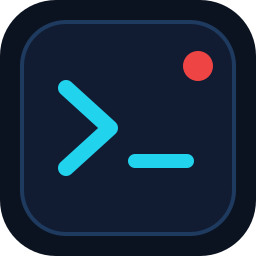
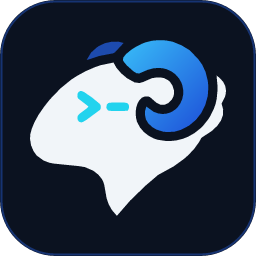
Release 0.4.1: Drag-and-drop on agent conversations, direct pane messaging, and open-in-editor skill

diff --git a/test/extension.test.ts b/test/extension.test.ts
@@ -1,0 +1,159 @@
+import { afterEach, beforeEach, describe, expect, it, vi } from 'vitest';
+import * as fs from 'node:fs/promises';
+import * as os from 'node:os';
+import * as path from 'node:path';
+
+const state = vi.hoisted(() => ({
+  view: undefined as any,
+  commands: new Map<string, (...args: any[]) => any>(),
+  roots: [{ uri: { fsPath: '/work/project', scheme: 'file', authority: '' } }],
+  remoteName: undefined as string | undefined,
+  error: vi.fn(),
+  client: {
+    session: 'vscode',
+    isAvailable: () => true,
+    subscribeEvents: () => () => {},
+    snapshot: async () => ({
+      workspaces: [{ workspace_id: 'w', label: 'project' }],
+      tabs: [{ tab_id: 't', workspace_id: 'w' }],
+      panes: [{ pane_id: 'p', tab_id: 't', workspace_id: 'w', cwd: '/work/project' }],
+      agents: [],
+      focused_tab_id: 't'
+    }),
+    sendText: vi.fn().mockResolvedValue(undefined),
+    focusTab: vi.fn().mockResolvedValue(undefined),
+    focusWorkspace: vi.fn().mockResolvedValue(undefined)
+  }
+}));
+
+vi.mock('vscode', () => ({
+  TreeItem: class {},
+  ThemeIcon: class {},
+  ThemeColor: class {},
+  EventEmitter: class { event = () => {}; fire() {} },
+  TreeItemCollapsibleState: { Expanded: 2, None: 0 },
+  StatusBarAlignment: { Left: 1 },
+  ColorThemeKind: { Light: 1, Dark: 2, HighContrastLight: 4 },
+  Uri: { parse: (value: string) => {
+    const uri = new URL(value);
+    return { scheme: uri.protocol.slice(0, -1), authority: uri.host,
+      fsPath: decodeURIComponent(uri.pathname), fragment: uri.hash.slice(1) };
+  } },
+  env: { get remoteName() { return state.remoteName; } },
+  workspace: {
+    get workspaceFolders() { return state.roots; },
+    getConfiguration: () => ({ get: (_key: string, fallback: unknown) => fallback }),
+    onDidChangeWorkspaceFolders: () => ({}),
+    onDidChangeConfiguration: () => ({})
+  },
+  window: {
+    activeColorTheme: { kind: 2 },
+    createStatusBarItem: () => ({ show() {}, dispose() {} }),
+    createTreeView: (_id: string, options: unknown) => { state.view = options; return {}; },
+    createTerminal: () => ({ show() {}, sendText() {} }),
+    onDidCloseTerminal: () => ({}),
+    onDidChangeActiveTextEditor: () => ({}),
+    showInformationMessage: vi.fn(),
+    showErrorMessage: state.error
+  },
+  commands: { registerCommand: (id: string, handler: (...args: any[]) => any) => {
+    state.commands.set(id, handler);
+    return {};
+  } }
+}));
+
+vi.mock('../src/herdrClient', async (importOriginal) => ({
+  ...await importOriginal<typeof import('../src/herdrClient')>(),
+  HerdrClient: vi.fn(function () { return state.client; })
+}));
+
+let extension: typeof import('../src/extension');
+let node: any;
+let scratch: string | undefined;
+
+beforeEach(async () => {
+  vi.clearAllMocks();
+  vi.resetModules();
+  state.roots = [{ uri: { fsPath: '/work/project', scheme: 'file', authority: '' } }];
+  state.remoteName = undefined;
+  extension = await import('../src/extension');
+  const { ConversationNode } = await import('../src/tree');
+  node = new ConversationNode({ pane_id: 'p', tab_id: 't', workspace_id: 'w',
+    agent: 'claude', status: 'idle', label: 'claude', running: true });
+  extension.activate({ subscriptions: [],
+    asAbsolutePath: (file: string) => path.resolve(file)
+  } as any);
+  await vi.waitFor(() => expect(state.view.treeDataProvider.getChildren()).toHaveLength(1));
+});
+
+afterEach(async () => {
+  extension.deactivate();
+  if (scratch) await fs.rm(scratch, { recursive: true, force: true });
+  scratch = undefined;
+});
+
+describe('conversation drops', () => {
+  it('sends multiple decoded file references and a line range directly to the chosen pane', async () => {
+    const data = new Map([['text/uri-list', {
+      asString: async () => '# files\r\nfile:///work/project/my%20notes.md#L3,2-L5,1\r\nfile:///other/file.ts',
+      asFile: () => undefined
+    }]]);
+    await state.view.dragAndDropController.handleDrop(node, data, { isCancellationRequested: false });
+    expect(state.client.sendText).toHaveBeenCalledWith('p', '@"my notes.md#L3-5" @/other/file.ts ');
+    expect(state.client.focusTab).toHaveBeenCalledWith('t');
+  });
+
+  it('brackets multiline selections without submitting or allowing a nested paste terminator', async () => {
+    const data = new Map([['text/plain', {
+      asString: async () => 'first\n\x1b[201~second', asFile: () => undefined
+    }]]);
+    await state.view.dragAndDropController.handleDrop(node, data, { isCancellationRequested: false });
+    expect(state.client.sendText).toHaveBeenCalledWith('p', '\x1b[200~first\nsecond\x1b[201~');
+  });
+
+  it('accepts file-manager file objects without a URI-list entry', async () => {
+    const data = new Map([['application/octet-stream', {
+      asFile: () => ({ uri: { scheme: 'file', authority: '', fsPath: '/work/project/a.ts', fragment: '' } })
+    }]]);
+    await state.view.dragAndDropController.handleDrop(node, data, { isCancellationRequested: false });
+    expect(state.client.sendText).toHaveBeenCalledWith('p', '@a.ts ');
+  });
+
+  it('does not send a cancelled drop or drop onto a shell', async () => {
+    const data = new Map([['text/plain', { asString: async () => 'hello', asFile: () => undefined }]]);
+    await state.view.dragAndDropController.handleDrop(node, data, { isCancellationRequested: true });
+    node.conv.agent = null;
+    await state.view.dragAndDropController.handleDrop(node, data, { isCancellationRequested: false });
+    expect(state.client.sendText).not.toHaveBeenCalled();
+  });
+
+  it('rejects local file paths in a remote window', async () => {
+    state.remoteName = 'ssh-remote';
+    state.roots = [{ uri: { fsPath: '/work/project', scheme: 'vscode-remote', authority: 'ssh-remote+host' } }];
+    const data = new Map([['text/uri-list', { asString: async () => 'file:///work/project/a.ts' }]]);
+    await state.view.dragAndDropController.handleDrop(node, data, { isCancellationRequested: false });
+    expect(state.client.sendText).not.toHaveBeenCalled();
+    expect(state.error).toHaveBeenCalledWith(expect.stringContaining('machine running the agent'));
+  });
+
+  it('accepts files on the connected remote host', async () => {
+    state.remoteName = 'ssh-remote';
+    state.roots = [{ uri: { fsPath: '/work/project', scheme: 'vscode-remote', authority: 'ssh-remote+host' } }];
+    const data = new Map([['text/uri-list', { asString: async () => 'vscode-remote://ssh-remote+host/work/project/a.ts' }]]);
+    await state.view.dragAndDropController.handleDrop(node, data, { isCancellationRequested: false });
+    expect(state.client.sendText).toHaveBeenCalledWith('p', '@a.ts ');
+  });
+});
+
+it('installs a discoverable skill and Claude link, preserving customized content on reinstall', async () => {
+  scratch = await fs.mkdtemp(path.join(os.tmpdir(), 'herdr-vscode-skill-'));
+  state.roots = [{ uri: { fsPath: scratch, scheme: 'file', authority: '' } }];
+  await state.commands.get('herdr.installAgentSkill')!();
+  const skill = path.join(scratch, '.agents/skills/herdr-open-vscode/SKILL.md');
+  const link = path.join(scratch, '.claude/skills/herdr-open-vscode/SKILL.md');
+  expect(await fs.readFile(link, 'utf8')).toBe(await fs.readFile(skill, 'utf8'));
+  await fs.writeFile(skill, 'custom instructions');
+  await state.commands.get('herdr.installAgentSkill')!();
+  expect(await fs.readFile(link, 'utf8')).toBe('custom instructions');
+  expect(state.error).not.toHaveBeenCalled();
+});

diff --git a/src/extension.ts b/src/extension.ts
@@ -292,7 +292,13 @@ function isLightTheme(): boolean {
 
 function tabEnv(): Record<string, string> {
   // TUIs read COLORFGBG before their first render; OSC 11 detection is too late.
-  return { COLORFGBG: isLightTheme() ? '0;15' : '15;0' };
+  return {
+    COLORFGBG: isLightTheme() ? '0;15' : '15;0',
+    // Route agents' `code --goto` requests back to this VS Code window.
+    ...(process.env.VSCODE_IPC_HOOK_CLI
+      ? { VSCODE_IPC_HOOK_CLI: process.env.VSCODE_IPC_HOOK_CLI }
+      : {})
+  };
 }
 
 async function pickHarness(): Promise<HarnessKind | undefined> {
@@ -458,11 +464,6 @@ async function sendSelection() {
     showError('the active tab is a shell, not an agent. Open an agent tab first.');
     return;
   }
-  if (!herdrTerminal || herdrTerminal.exitStatus !== undefined) {
-    showError('open a conversation first: the Herdr terminal is not running.');
-    return;
-  }
-
   const owner =
     folderForConversation(conv) ?? folderForActiveEditor() ?? currentFolder();
   const file = referencePath(owner, editor.document.uri.fsPath);
@@ -479,16 +480,8 @@ async function sendSelection() {
 
   const payload = formatReference(conv.agent, file, start, end);
   try {
-    await client.focusWorkspace(conv.workspace_id);
-    await client.focusTab(conv.tab_id);
-  } catch (e) {
-    showError(`could not focus the conversation: ${errorMessage(e)}`);
-    return;
-  }
-  try {
-    const term = ensureHerdrTerminal();
-    term.show(false);
-    term.sendText(payload, false);
+    await client.sendText(conv.pane_id, payload);
+    revealConversation(conv);
   } catch (e) {
     showError(`could not send the reference: ${errorMessage(e)}`);
   }
@@ -658,7 +651,58 @@ export function activate(context: vscode.ExtensionContext) {
   statusBarItem.show();
 
   tree = new HerdrTreeProvider(workspaceStates);
-  context.subscriptions.push(vscode.window.registerTreeDataProvider('herdr.agents', tree));
+  context.subscriptions.push(vscode.window.createTreeView('herdr.agents', {
+    treeDataProvider: tree,
+    dragAndDropController: {
+      dragMimeTypes: [],
+      dropMimeTypes: ['text/uri-list', 'text/plain', 'files'],
+      async handleDrop(target, data, token) {
+        if (!(target instanceof ConversationNode) || !target.conv.agent) {
+          showError('drop files or text onto an agent conversation in the Herdr view.');
+          return;
+        }
+        try {
+          const conv = target.conv;
+          const owner = folderForConversation(conv);
+          const uriList = await data.get('text/uri-list')?.asString();
+          const uris = uriList
+            ? uriList.split(/\r?\n/)
+                .filter((line) => line && !line.startsWith('#'))
+                .map((line) => vscode.Uri.parse(line))
+            : [...data].flatMap(([, item]) => {
+                const uri = item.asFile()?.uri;
+                return uri ? [uri] : [];
+              });
+          let payload = '';
+          if (uris.length) {
+            for (const uri of uris) {
+              const roots = vscode.workspace.workspaceFolders ?? [];
+              const sameHost = roots.some((root) => root.uri.scheme === uri.scheme && root.uri.authority === uri.authority);
+              if ((uri.scheme !== 'file' && uri.scheme !== 'vscode-remote') ||
+                  (!sameHost && (vscode.env.remoteName || uri.scheme !== 'file')) || /[\r\n\x1b]/.test(uri.fsPath)) {
+                throw new Error('dropped files must be paths on the machine running the agent.');
+              }
+              const lines = /^L?(\d+)(?:,\d+)?(?:-L?(\d+)(?:,\d+)?)?$/.exec(uri.fragment);
+              const start = lines ? Number(lines[1]) : undefined;
+              const end = lines ? Number(lines[2] ?? lines[1]) : undefined;
+              payload += formatReference(conv.agent, owner ? referencePath(owner, uri.fsPath) : uri.fsPath, start, end);
+            }
+          } else {
+            payload = await data.get('text/plain')?.asString() ?? '';
+          }
+          if (!payload || token.isCancellationRequested) return;
+          if (/[\r\n]/.test(payload)) {
+            payload = `\x1b[200~${payload.replace(/\x1b\[(?:200|201)~/g, '')}\x1b[201~`;
+          }
+          // Address the pane directly: changing TUI focus before typing can race.
+          await client.sendText(conv.pane_id, payload);
+          revealConversation(conv);
+        } catch (e) {
+          showError(`could not send dropped content: ${errorMessage(e)}`);
+        }
+      }
+    }
+  }));
 
   context.subscriptions.push(
     statusBarItem,
@@ -717,6 +761,29 @@ export function activate(context: vscode.ExtensionContext) {
   });
   command('herdr.renameConversation', (arg?: unknown) => renameConversation(arg));
   command('herdr.sendSelection', () => sendSelection());
+  command('herdr.installAgentSkill', async () => {
+    const folder = vscode.workspace.workspaceFolders?.length === 1
+      ? vscode.workspace.workspaceFolders[0]
+      : await vscode.window.showWorkspaceFolderPick({ placeHolder: 'Install the VS Code file-opening skill in this folder' });
+    if (!folder) return;
+    try {
+      const directory = path.join(folder.uri.fsPath, '.agents', 'skills', 'herdr-open-vscode');
+      await fs.promises.mkdir(directory, { recursive: true });
+      // Exclusive creation preserves any skill the user has already customized.
+      await fs.promises.copyFile(
+        context.asAbsolutePath('skills/herdr-open-vscode/SKILL.md'),
+        path.join(directory, 'SKILL.md'),
+        fs.constants.COPYFILE_EXCL
+      ).catch((e: NodeJS.ErrnoException) => { if (e.code !== 'EEXIST') throw e; });
+      const claudeSkills = path.join(folder.uri.fsPath, '.claude', 'skills');
+      await fs.promises.mkdir(claudeSkills, { recursive: true });
+      await fs.promises.symlink('../../.agents/skills/herdr-open-vscode', path.join(claudeSkills, 'herdr-open-vscode'))
+        .catch((e: NodeJS.ErrnoException) => { if (e.code !== 'EEXIST') throw e; });
+      void vscode.window.showInformationMessage('Herdr: VS Code file-opening skill installed. Restart existing agents to discover it.');
+    } catch (e) {
+      showError(`could not install the agent skill: ${errorMessage(e)}`);
+    }
+  });
   command('herdr.refresh', () => refreshState());
   command('herdr.diagnose', () => diagnose());
 

diff --git a/src/herdrClient.ts b/src/herdrClient.ts
@@ -289,6 +289,10 @@ export class HerdrClient {
     await this.call('workspace.focus', { workspace_id: workspaceId });
   }
 
+  async sendText(paneId: string, text: string): Promise<void> {
+    await this.call('pane.send_text', { pane_id: paneId, text });
+  }
+
   /** Retries while the new pane's shell is not ready yet ("is not an available shell"). */
   async agentStart(
     name: string,

diff --git a/README.md b/README.md
@@ -31,6 +31,13 @@ terminal.
 - **Send references.** Select code and run **Herdr: Send Selection to Agent** (or
   the editor context menu). The active harness receives `@path#L10-20` in the
   syntax it understands.
+- **Drag and drop.** Drop files from Explorer or your file manager onto an agent
+  conversation in the Herdr activity-bar view. Multiple files use that agent's
+  mention syntax; dropped text is inserted directly, with multiline text sent as
+  bracketed paste. Content is inserted without submitting the prompt.
+- **Agents open files.** Agents can run `code --reuse-window --goto "path:line:column"`
+  to show a file in the editor. **Herdr: Install Agent Skill (Open Files in VS Code)**
+  adds instructions to the selected workspace for Codex and Claude Code.
 - **Rename tabs** without leaving VS Code, and close a conversation without
   destroying its workspace.
 - **Multi-root folders.** New conversations use the active editor's folder; the
@@ -88,6 +95,7 @@ bound to keys in **Keyboard Shortcuts**.
 | `Herdr: Rename Agent Tab` | Rename the active (or picked) tab in herdr. |
 | `Herdr: Close Conversation` | Close a tab, leaving a shell if it was the last one. |
 | `Herdr: Send Selection to Agent` | Insert a file/line reference into the active agent. |
+| `Herdr: Install Agent Skill (Open Files in VS Code)` | Install file-opening instructions in the selected workspace. |
 | `Herdr: Open Herdr Terminal` | Reveal the herdr TUI terminal. |
 | `Herdr: Focus Workspace` | Focus the active folder's workspace, or the one selected in the tree. |
 | `Herdr: Refresh Agents` | Force a snapshot refresh. |
@@ -131,6 +139,21 @@ bound to keys in **Keyboard Shortcuts**.
 
   Paths are relative to the folder; files outside it are sent absolute. Sending
   is refused when the active tab is a shell rather than an agent.
+- **Drops.** The Herdr view accepts file URI lists, files and selected text on
+  agent conversations. References are relative to the target pane's working
+  directory. Drops and editor references go directly to that pane through
+  `pane.send_text`, without relying on terminal focus. In remote windows, dropped
+  files must already exist on the remote machine; local files are not uploaded.
+  VS Code's native terminal handles its own drops; the extension's harness-aware
+  drop target is the conversation in the Herdr view.
+- **Opening files from agents.** The installed skill uses VS Code's existing
+  `code --reuse-window --goto` CLI, with one-based lines and columns, and requires
+  no bridge. New tabs inherit `VSCODE_IPC_HOOK_CLI` from the extension host when
+  available, routing CLI requests to the originating window. Otherwise the CLI
+  uses the last active window. In remote environments, use VS Code's remote
+  `code` CLI. The command installs `.agents/skills/herdr-open-vscode/SKILL.md` and
+  a `.claude/skills/herdr-open-vscode` symlink; existing files and links are
+  preserved. Restart existing agents to discover newly installed skills.
 
 ## Troubleshooting
 

diff --git a/skills/herdr-open-vscode/SKILL.md b/skills/herdr-open-vscode/SKILL.md
@@ -1,0 +1,20 @@
+---
+name: herdr-open-vscode
+description: Open a file in the user's VS Code editor when they ask to see a file or a specific line from an agent conversation.
+---
+
+Run VS Code's CLI from the agent's working directory:
+
+```sh
+code --reuse-window --goto "./src/example.ts:42:1"
+```
+
+Replace the example with the requested file and optional one-based line and column.
+Quote the entire argument so spaces in paths work. Existing files can be opened
+without changing their contents. Multiple files can be passed as separate arguments.
+
+In Remote-SSH, WSL, or a dev container, use the `code` command provided by that
+VS Code environment. Herdr tabs created by the extension inherit
+`VSCODE_IPC_HOOK_CLI` when available to route requests to the originating window.
+Otherwise `--reuse-window` uses the last active VS Code window. If `code` is
+unavailable, report that rather than installing or launching another editor.

diff --git a/CHANGELOG.md b/CHANGELOG.md
@@ -1,5 +1,16 @@
 # Changelog
 
+## 0.4.1
+
+- Updated extension icon and activity bar icon to the minimalistic Herdr ram mascot.
+- Drop files or selected text onto agent conversations in the Herdr view, with
+  harness-specific references, multiple files and bracketed multiline paste.
+- Send references and drops directly to their target pane, avoiding terminal
+  focus races.
+- Add **Install Agent Skill (Open Files in VS Code)**, documenting VS Code's
+  existing `code --reuse-window --goto` command for agents. New tabs inherit
+  the extension host's CLI routing when available.
+
 ## 0.4.0
 
 First release as **Herdr for VS Code** (`xicu.herdr-vscode`), superseding
